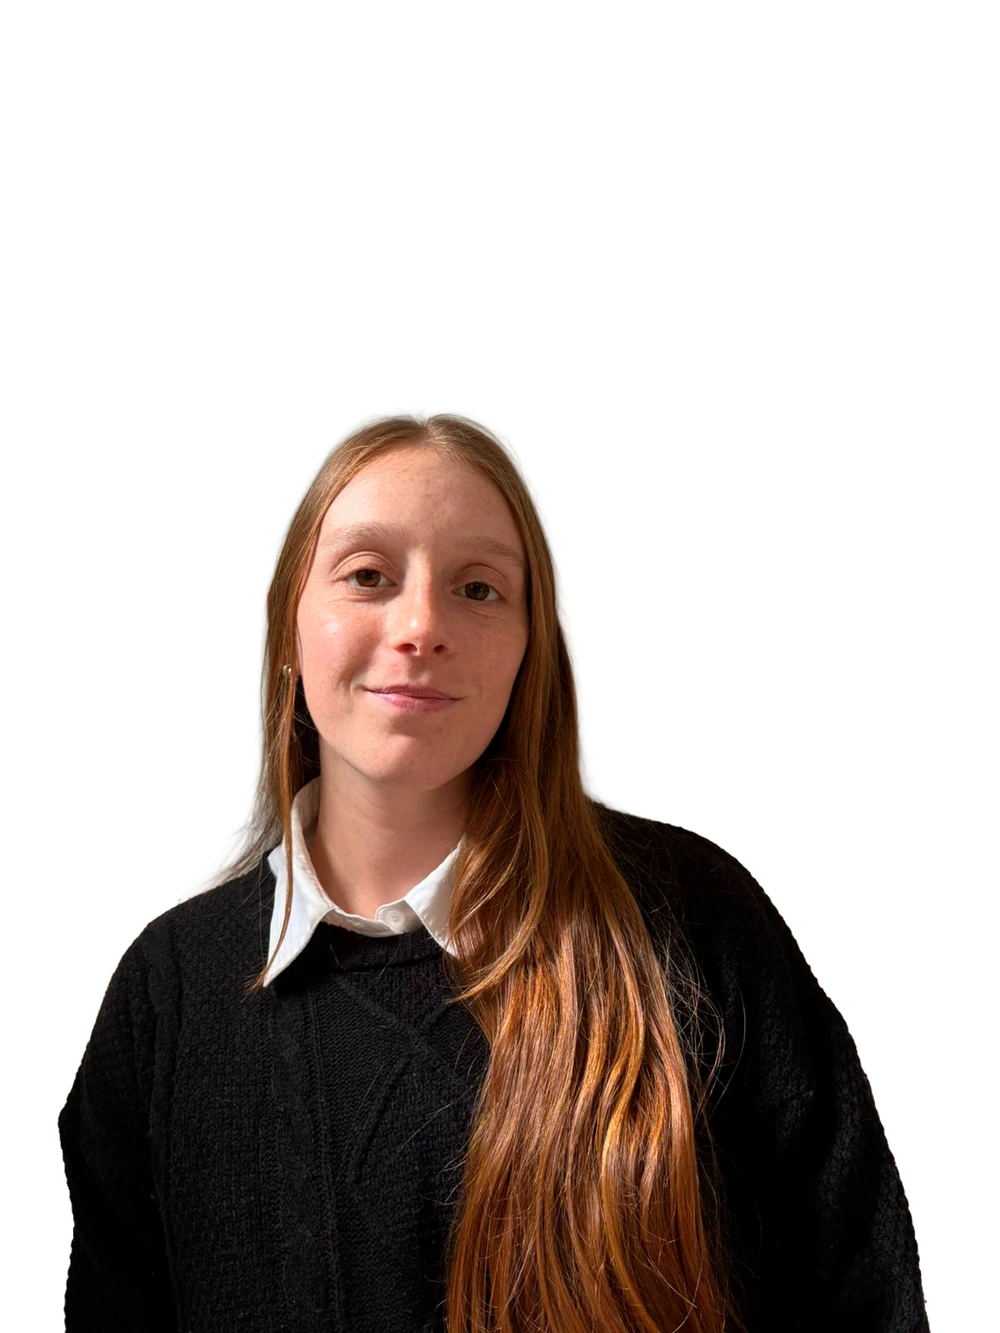
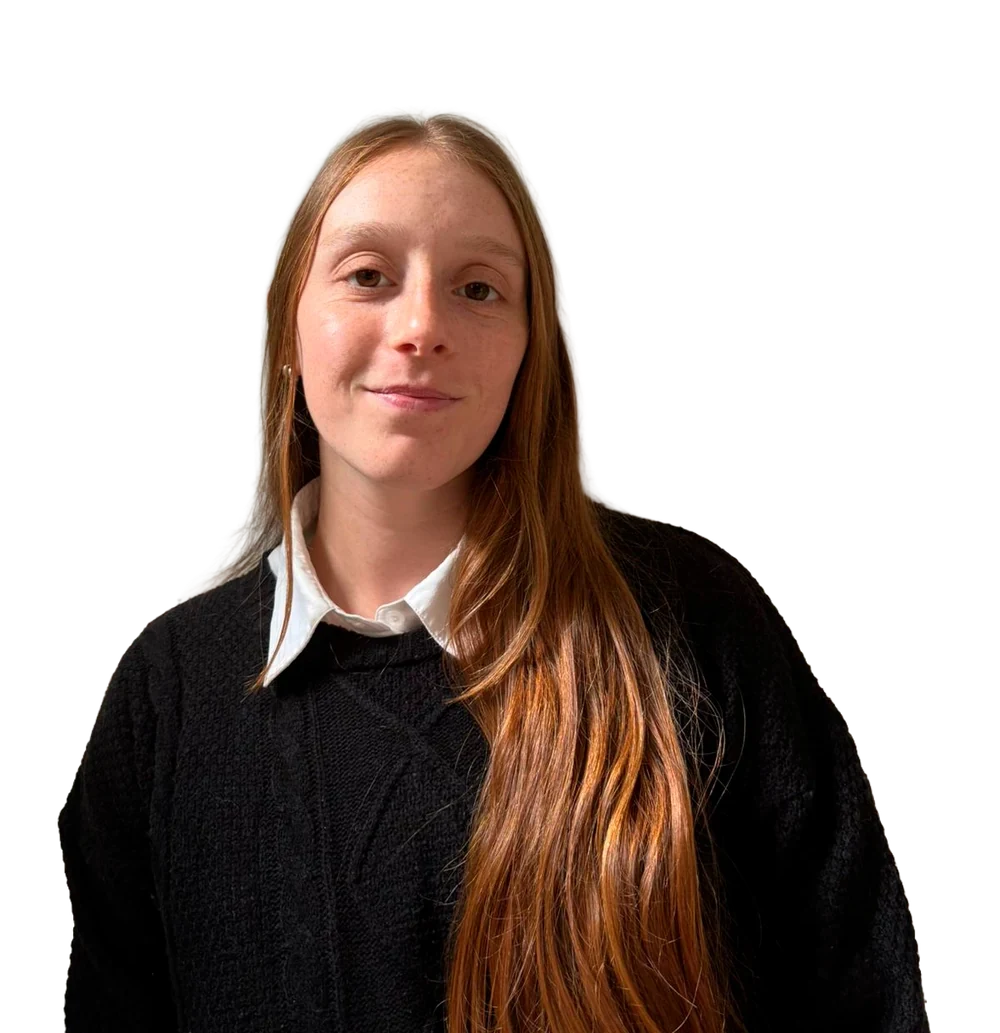
Fix mobile nav overlay, add menu entrance animation, tighten portrait crop
- Mobile nav: drop the scrolled backdrop-filter while the menu is open. A
  non-none backdrop-filter made the header the containing block for the
  panel's position:fixed, clipping the overlay to the header box once
  scrolled; now it covers content in both states.
- Mobile nav: staggered keyframe entrance for the menu items. A CSS
  transition does not play across a display:none -> flex toggle, so the
  items used to pop in; keyframes replay on each open.
- Portrait: crop ~30% of empty headroom off the top (1000x1333 -> 1000x1033)
  and correct the width/height attrs (were 1100x1156) to avoid CLS.

Changed region(s): [[0.062, 0.0929, 0.899, 1.0], [0.899, 0.8674, 0.93, 0.9913], [0.341, 0.8054, 0.372, 0.8674]]

diff --git a/src/components/react/MobileNav.tsx b/src/components/react/MobileNav.tsx
@@ -27,15 +27,21 @@ export default function MobileNav({
   const triggerRef = useRef<HTMLButtonElement>(null);
   const prevOpen = useRef(false);
 
-  // Body scroll lock + Escape to close.
+  // Body scroll lock + Escape to close. Also flag the header so its scrolled
+  // backdrop-filter is dropped while open: a backdrop-filter turns the header
+  // into the containing block for its fixed descendants, which would otherwise
+  // clip this panel to the header's box once the page is scrolled.
   useEffect(() => {
     document.body.style.overflow = open ? 'hidden' : '';
+    const header = triggerRef.current?.closest<HTMLElement>('[data-header]') ?? null;
+    if (header) header.toggleAttribute('data-menu-open', open);
     const onKey = (e: KeyboardEvent) => {
       if (e.key === 'Escape') setOpen(false);
     };
     window.addEventListener('keydown', onKey);
     return () => {
       document.body.style.overflow = '';
+      header?.removeAttribute('data-menu-open');
       window.removeEventListener('keydown', onKey);
     };
   }, [open]);
@@ -99,10 +105,6 @@ export default function MobileNav({
         tabIndex={-1}
         hidden={!open}
         className="fixed inset-0 z-50 flex flex-col bg-cream px-6 pb-10 pt-24 outline-none"
-        style={{
-          transition: 'opacity .35s ease',
-          opacity: open ? 1 : 0,
-        }}
       >
         <nav className="flex flex-1 flex-col justify-center gap-1" aria-label="Mobile">
           {links.map((l, i) => (
@@ -110,19 +112,18 @@ export default function MobileNav({
               key={l.href}
               href={l.href}
               onClick={() => setOpen(false)}
-              className="font-display text-6xl uppercase leading-[0.95] text-ink transition-colors hover:text-pink"
-              style={{
-                opacity: open ? 1 : 0,
-                transform: open ? 'none' : 'translateY(1rem)',
-                transition: `opacity .5s ${120 + i * 70}ms, transform .5s ${120 + i * 70}ms`,
-              }}
+              className="nav-rise font-display text-6xl uppercase leading-[0.95] text-ink transition-colors hover:text-pink"
+              style={{ animationDelay: `${90 + i * 65}ms` }}
             >
               {l.label}
             </a>
           ))}
         </nav>
 
-        <div className="mt-auto flex items-end justify-between border-t border-line pt-6">
+        <div
+          className="nav-rise mt-auto flex items-end justify-between border-t border-line pt-6"
+          style={{ animationDelay: `${90 + links.length * 65}ms` }}
+        >
           <a href={`mailto:${email}`} className="mono text-sm link-underline">
             {email}
           </a>

diff --git a/src/styles/global.css b/src/styles/global.css
@@ -55,6 +55,19 @@
   }
 }
 
+/* Staggered entrance for the mobile menu items. Uses a keyframe (not a
+ * transition) so it replays each time the panel goes display:none -> flex. */
+@keyframes nav-rise {
+  from {
+    opacity: 0;
+    transform: translateY(1.5rem);
+  }
+  to {
+    opacity: 1;
+    transform: none;
+  }
+}
+
 /* ── Base layer ──────────────────────────────────────────────────────── */
 @layer base {
   :root {
@@ -160,6 +173,11 @@
   .link-underline:hover,
   .link-underline:focus-visible {
     background-size: 100% 1px;
+  }
+
+  /* Mobile menu entrance — pair with an inline `animation-delay` to stagger. */
+  .nav-rise {
+    animation: nav-rise 0.55s var(--ease-out-expo) both;
   }
 }
 
